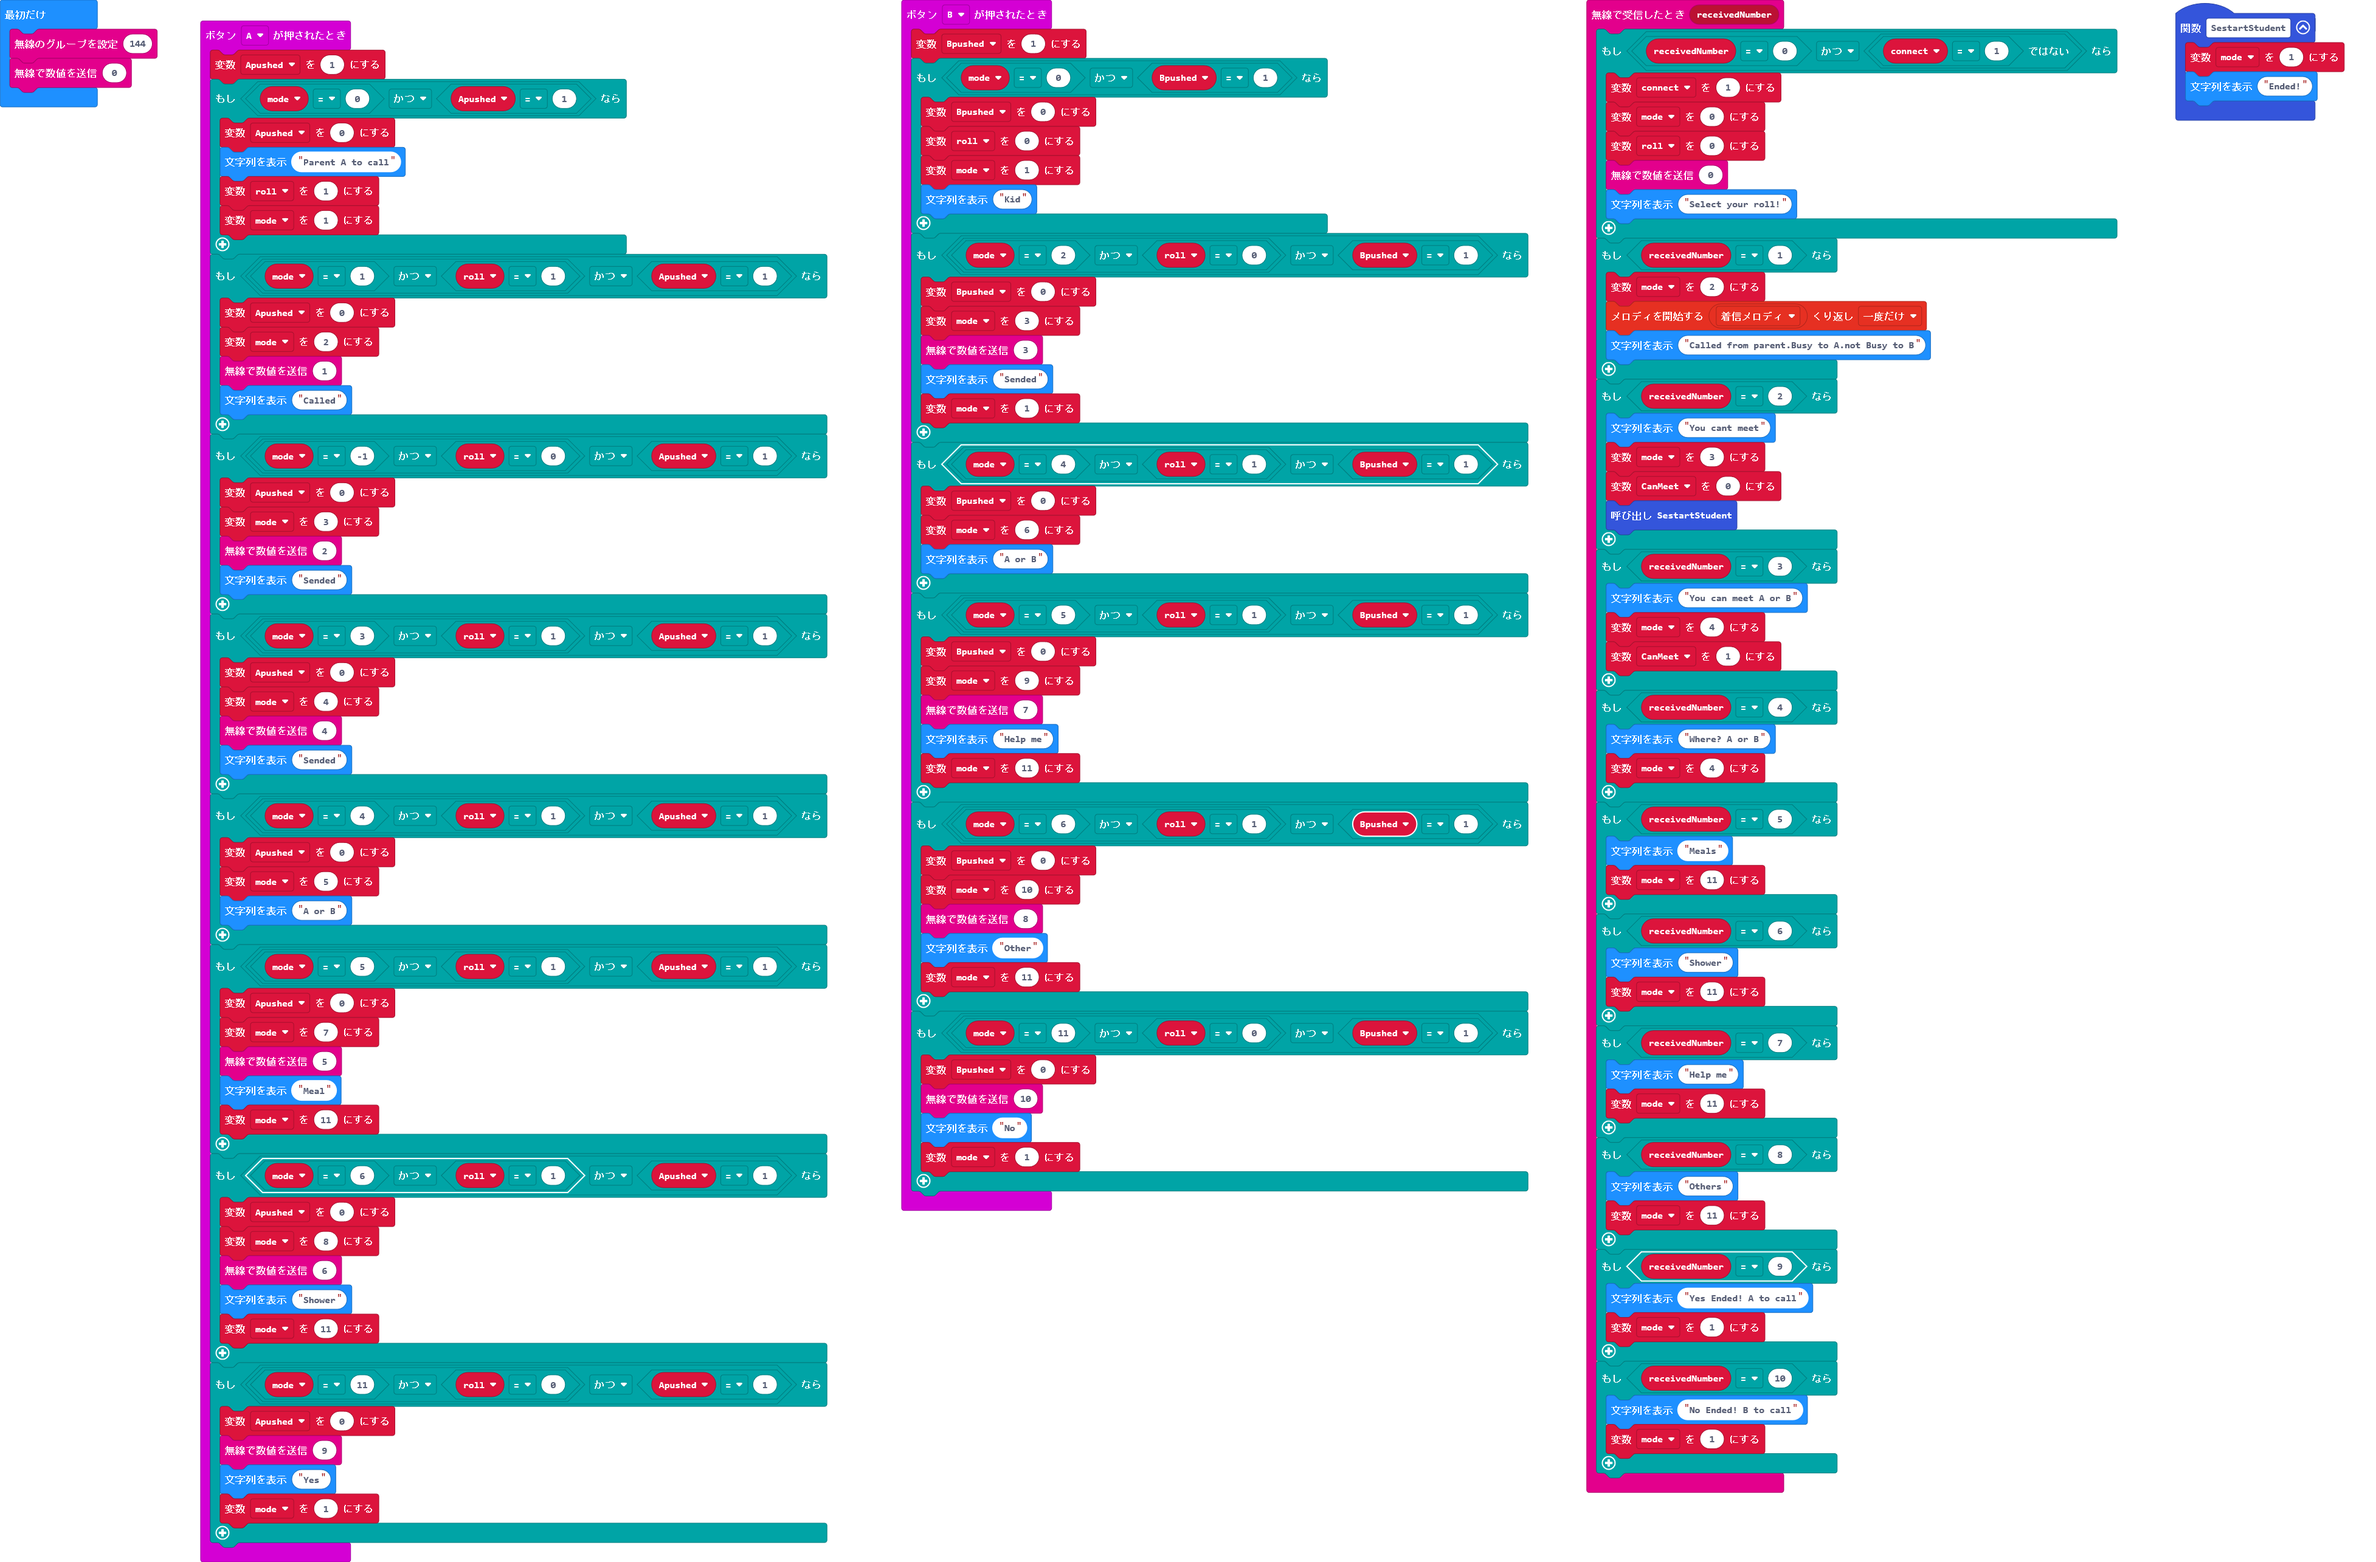
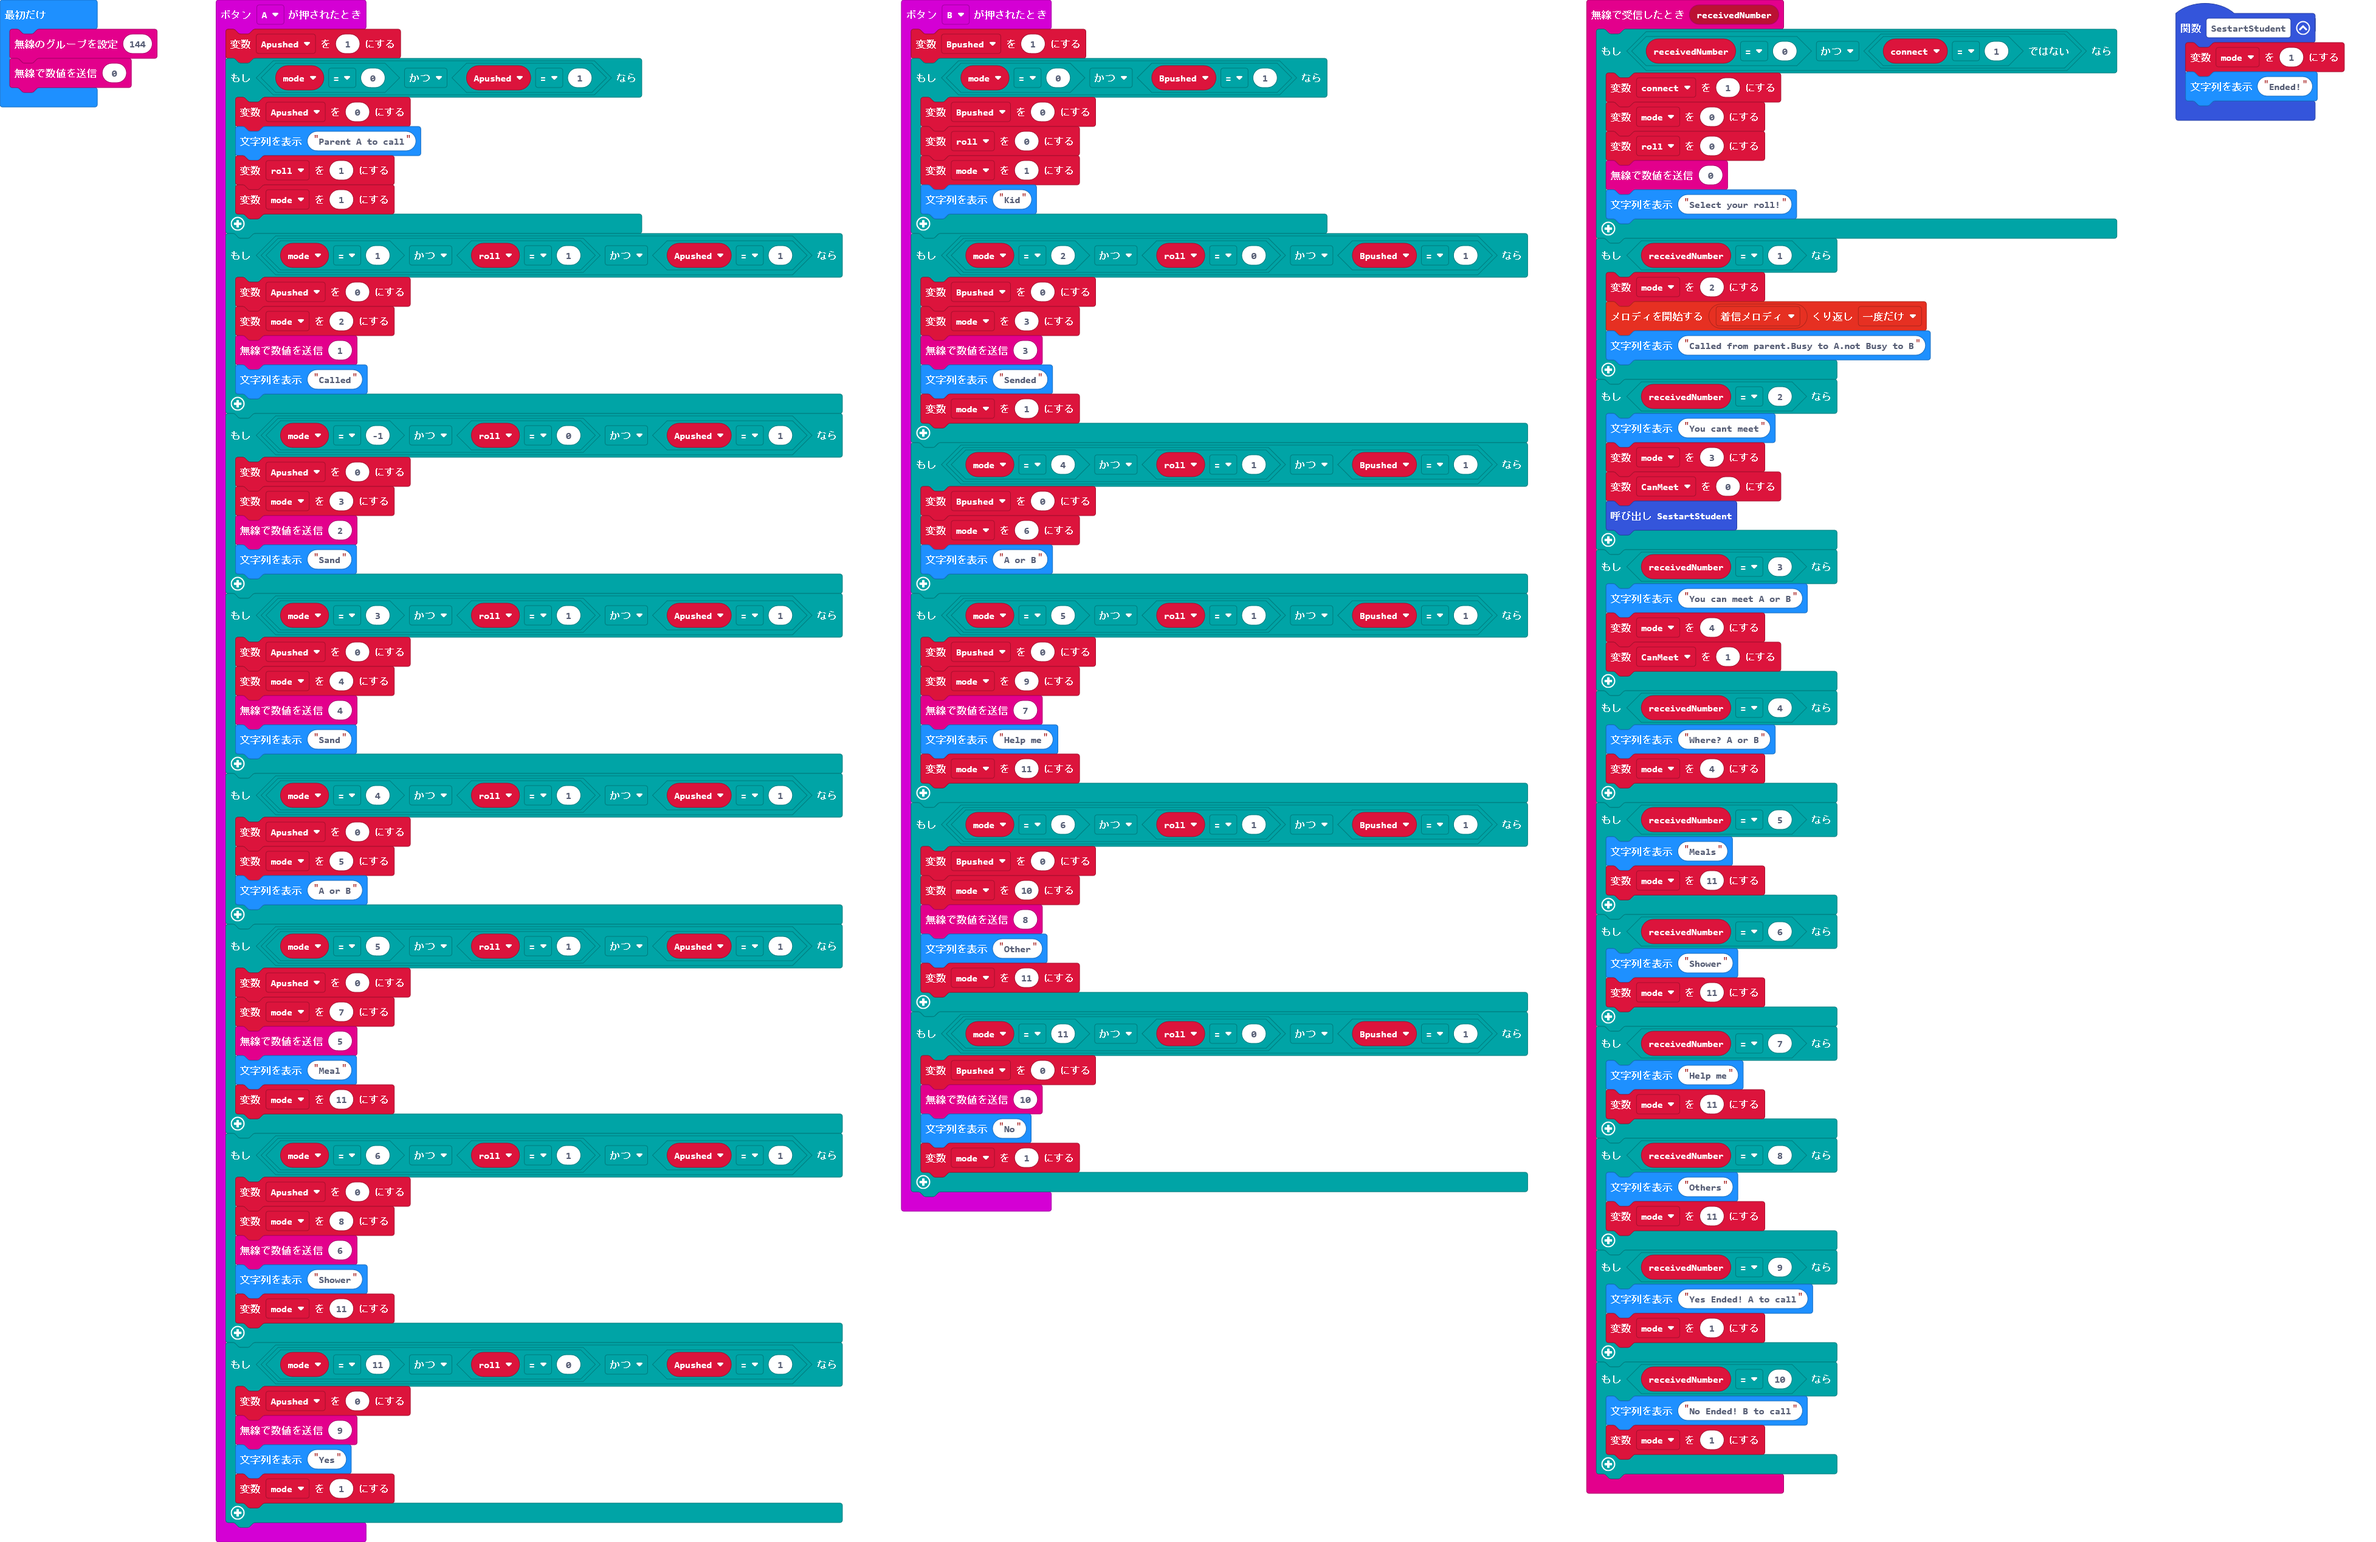
fixed spell

diff --git a/main.ts b/main.ts
@@ -73,13 +73,13 @@ input.onButtonPressed(Button.A, function () {
         Apushed = 0
         mode = 3
         radio.sendNumber(2)
-        basic.showString("Sended")
+        basic.showString("Sand")
     }
     if (mode == 3 && roll == 1 && Apushed == 1) {
         Apushed = 0
         mode = 4
         radio.sendNumber(4)
-        basic.showString("Sended")
+        basic.showString("Sand")
     }
     if (mode == 4 && roll == 1 && Apushed == 1) {
         Apushed = 0
